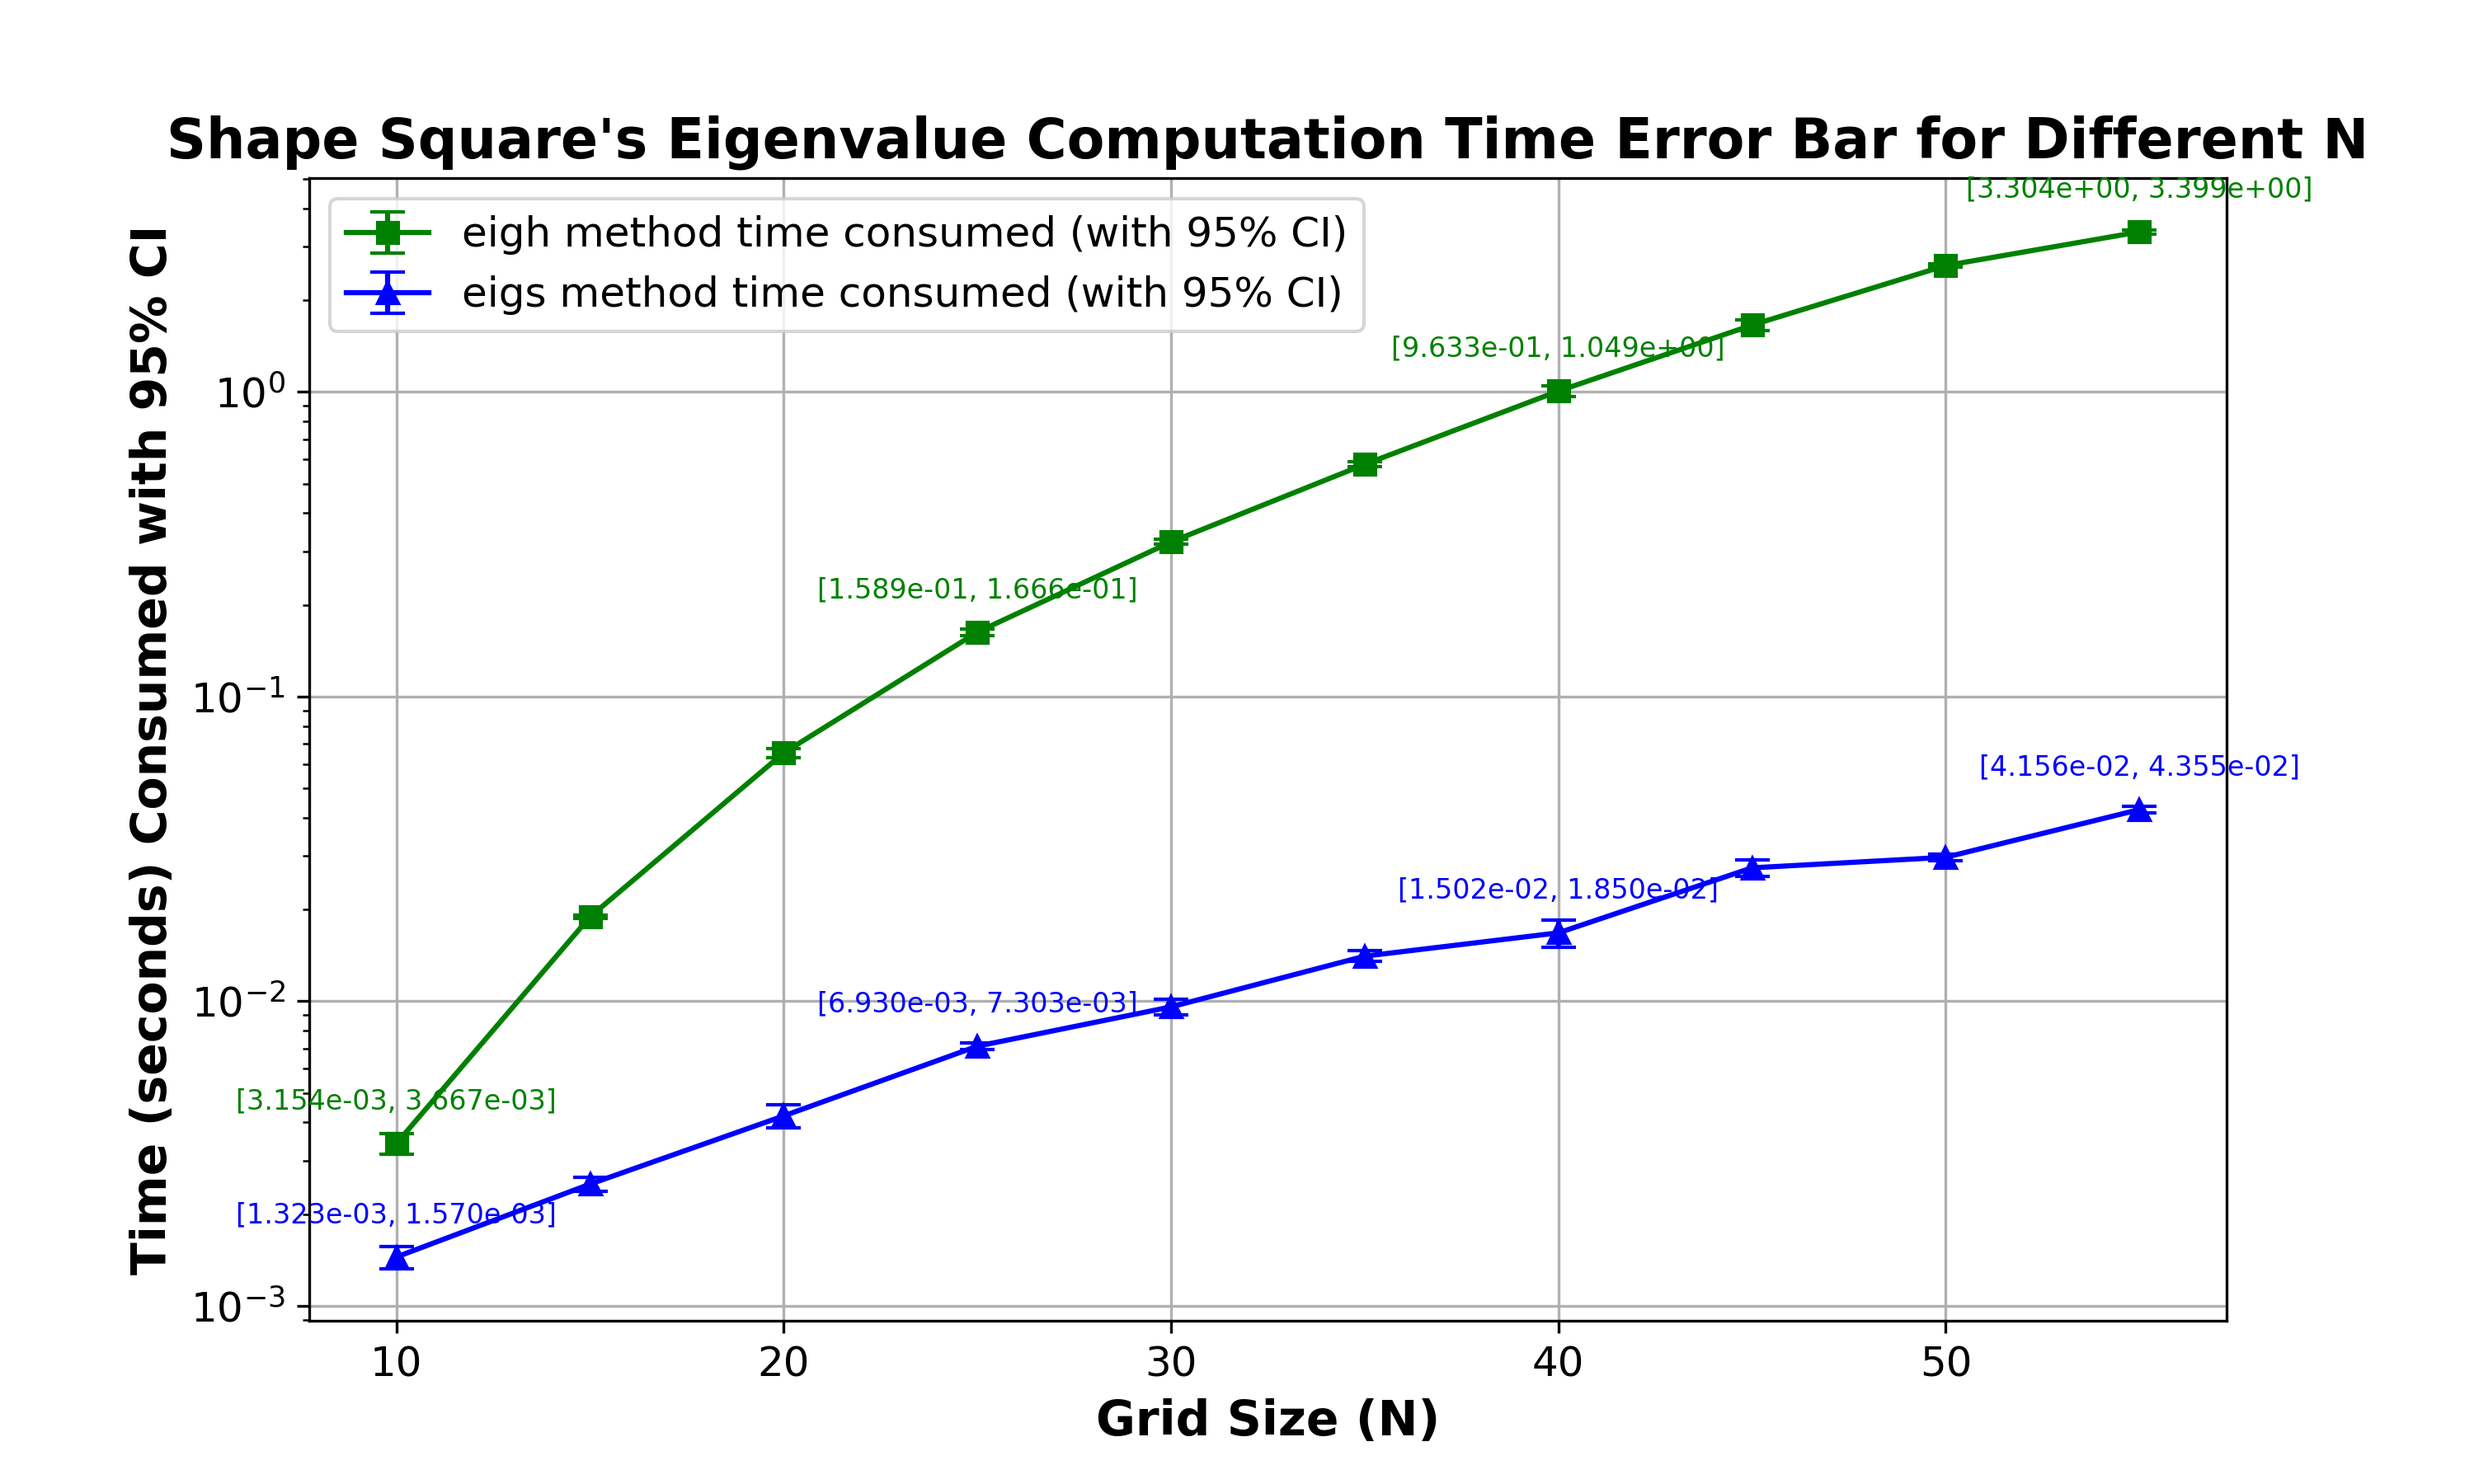
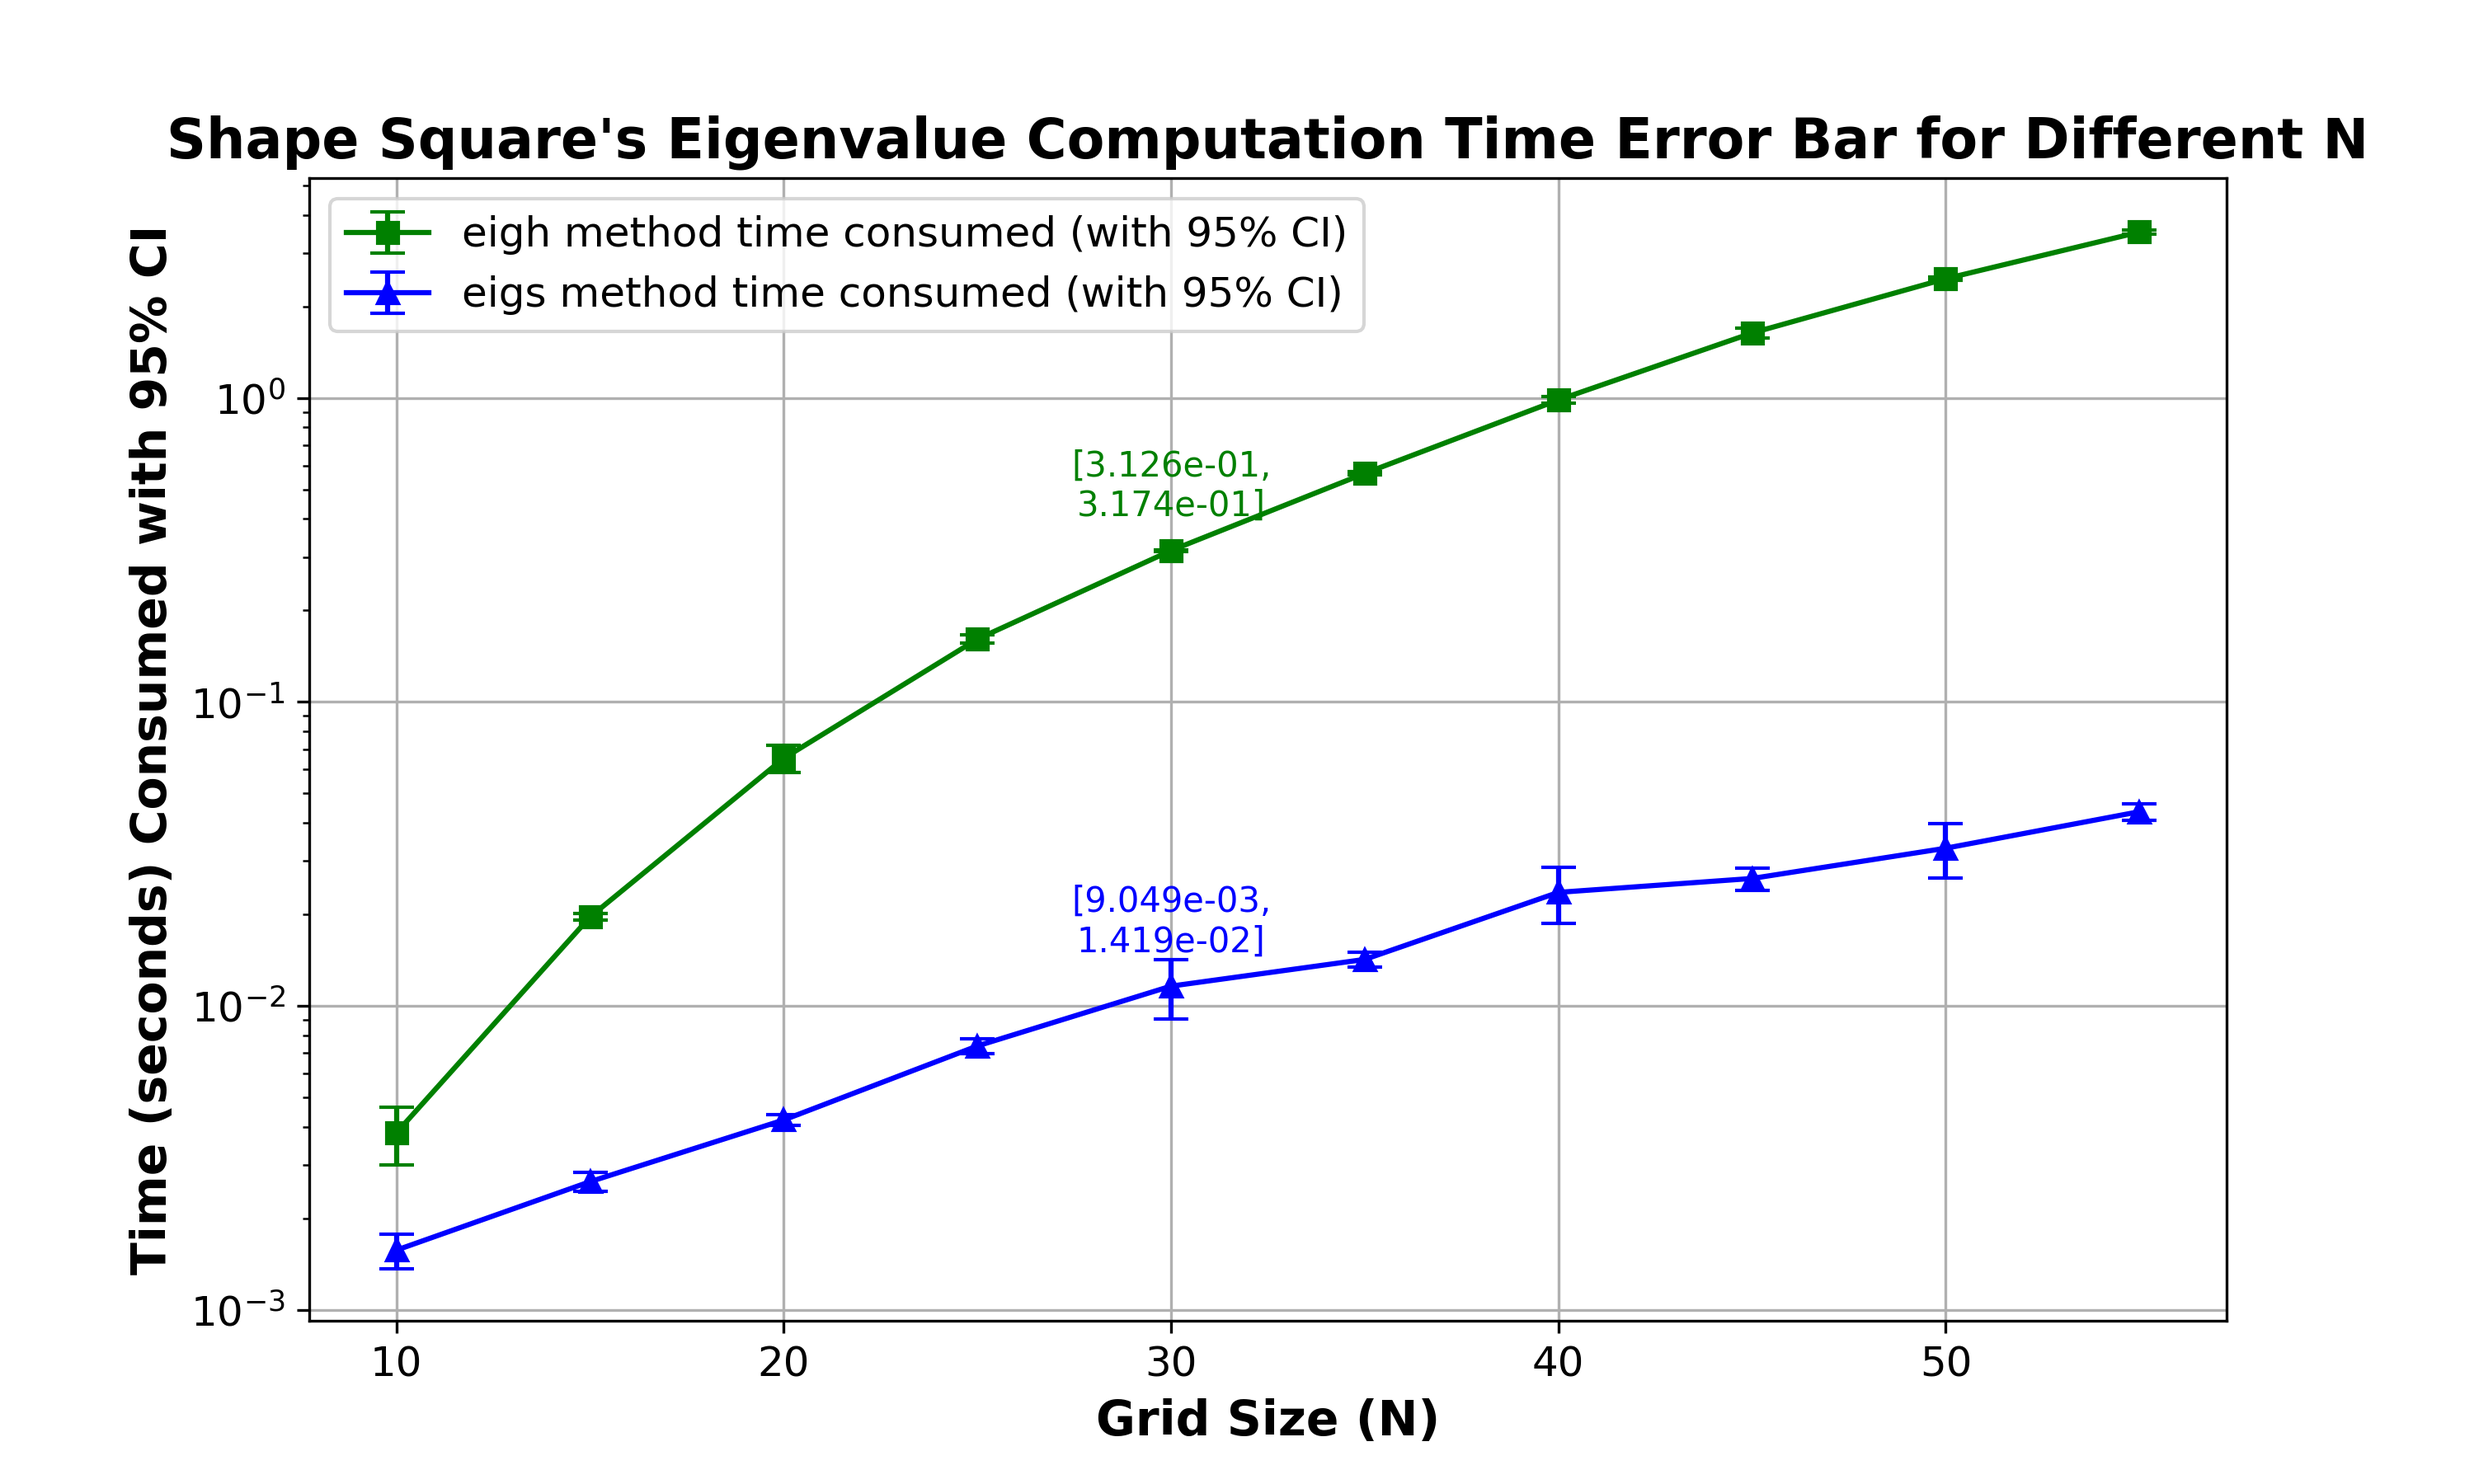
add readme

diff --git a/src/eigenmode/speed_analysis.py b/src/eigenmode/speed_analysis.py
@@ -107,9 +107,15 @@ def plot_results_set(times, shape="square", path="../../fig/eigenvalue_computati
 
         # label the confidence intervals
         for i, N in enumerate(N_values):
-            if i % 3 == 0:
+            if i % 4 == 0 and i != 0 and i < 6:
                 ci_low, ci_high = times[method][i]["confidence_interval"]
-                plt.annotate(f"[{ci_low:.3e}, {ci_high:.3e}]", (N, means[i]), textcoords="offset points", xytext=(0,10), ha='center', fontsize=8, color=colors[method])
+                plt.annotate(f"\n[{ci_low:.3e},\n{ci_high:.3e}]", 
+                            (N, means[i]), 
+                            textcoords="offset points", 
+                            xytext=(0, 10), 
+                            ha='center', 
+                            fontsize=10,
+                            color=colors[method])
 
     plt.xticks(fontsize=12)
     plt.yticks(fontsize=12)

diff --git a/README.md b/README.md
@@ -1,0 +1,57 @@
+# Scientific Computing Assignment 3
+
+## Overview
+Source Code for assignment 3.
+
+## Repository Structure
+```
+SC_SET3/
+├── fig/                           # Directory containing result images
+├── src/                           # Source code directory
+│   ├── eigenmode/                 # Part I: Eigenmodes of drums or membranes of different shapes
+│   │   ├── gen_M.py               #  Question B: 4 approaches to generate the matrix M
+│   │   ├── solve_eigenv.py        #  Question B: wrapper for different solvers
+│   │   ├── speed_analysis.py      #  Question C: Solve the M
+│   │   ├── spectrum.py            #  Question D: spectrum display
+│   │   ├── u_solution.py          #  Question E: U animation over time
+│   ├── create_grids.py            #  Question A
+│   │ 
+│   ├── steady_diffusion/          # Part II:  Direct methods for solving steady state problems
+│   │ 
+│   ├── optional/                  # Part III: The leapfrog method - efficient time integration
+│   
+├── .gitignore                     # Git ignore file
+├── LICENSE                        # License information
+├── presentation_3_1_and_3_2.ipynb # Jupyter Notebook for presentation
+├── presentation_3_3.ipynb         # Jupyter Notebook for presentation
+├── requirements.txt               # Dependencies list for Python installation
+├── README.md                      # Project documentation
+```
+
+## Description of Files
+### Source Code (`src/`)
+- **matijs/**: Contains the discretized solution for Diffusion Limited Aggregation (DLA), including probabilistic growth modeling.
+- **noa/**: Implements the Monte Carlo simulation for DLA using random walkers and includes comparison metrics.
+- **alex/**: Includes the numerical solution for the Gray-Scott reaction-diffusion system, along with visualization scripts.
+
+### Figures (`fig/`)
+- This directory contains all result images generated from the computations.
+
+### Other Files
+- **LICENSE**: License file for the repository.
+- **README.md**: This document, providing an overview of the project.
+
+## Running the Code
+To execute the different parts of the assignment, navigate to the **presentation_3_1_and_3_2.ipynb** and **presentation_3_3.ipynb**, which contains overview and visualizations.
+
+## Dependencies
+Ensure the following Python packages are installed:
+```bash
+pip install -r requirements.txt
+```
+
+## License
+This project is licensed under the terms specified in the `LICENSE` file.
+
+## Contact
+For any questions, please refer to the presentation notebook or the provided scripts.
